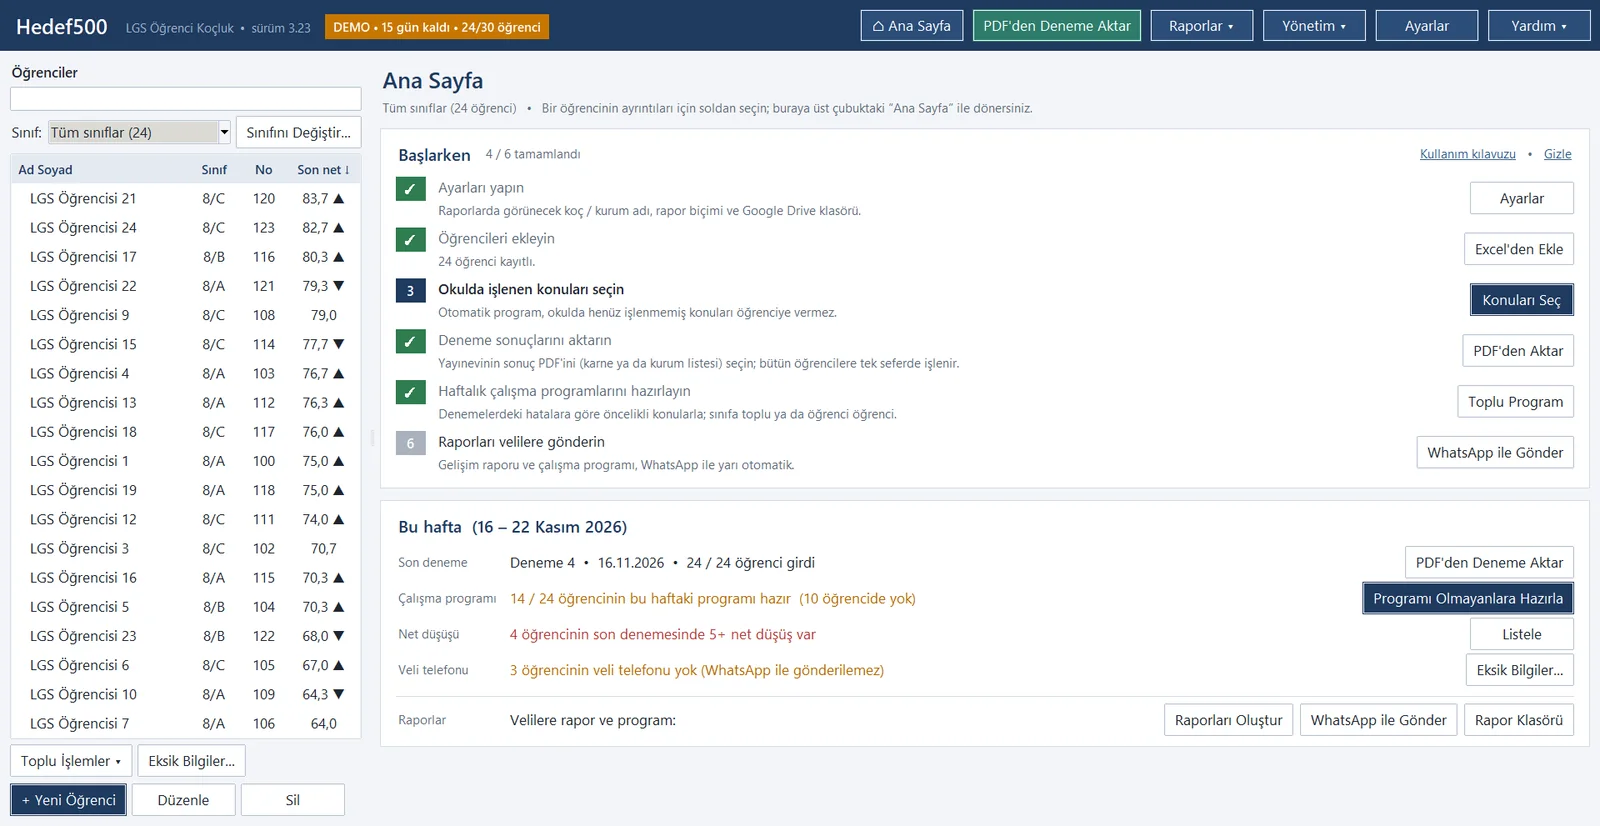
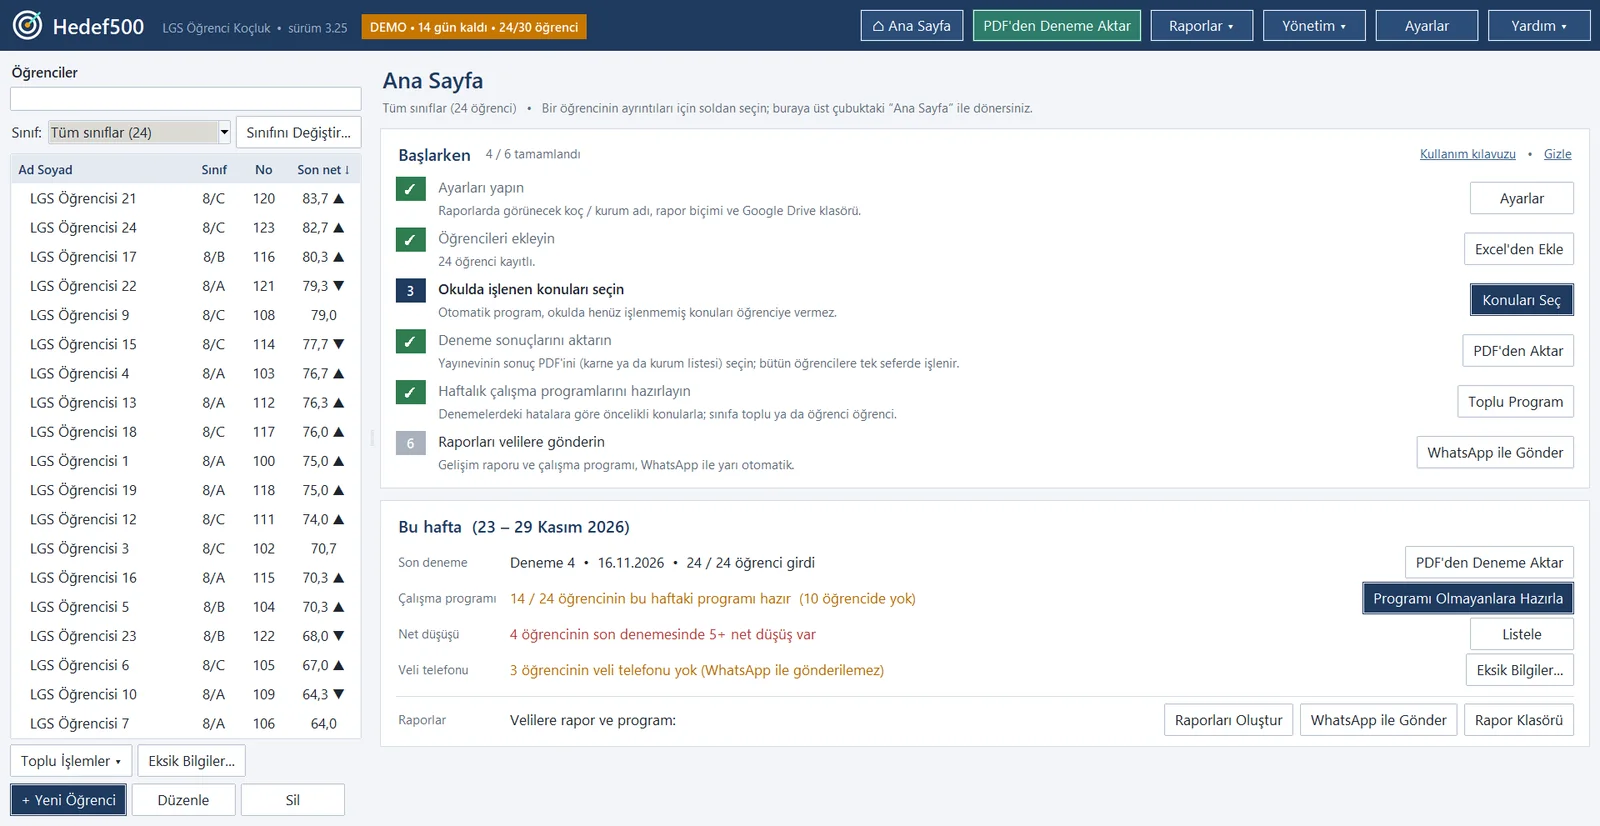
Program görselleri 3.25 ile yenilendi; gün içi sıra, geri alma ve haftalık çizelge anlatımı

Changed region(s): [[0.0, 0.0, 0.375, 0.0605], [0.3125, 0.6356, 0.4062, 0.6659]]

diff --git a/index.html b/index.html
@@ -308,8 +308,8 @@
         <div class="adim-metin">
           <span class="adim-no" aria-hidden="true">3</span>
           <h3>Haftalık programı hazırlayın</h3>
-          <p>Program, öğrencinin öncelikli konularından o haftanın çalışma planını çıkarır: konu çalışması, kazanım soruları, deneme analizi ve günlük paragraf rutini. Tek öğrenciye ya da bütün sınıfa bir kerede hazırlanır; dilediğiniz görevi elle değiştirirsiniz.</p>
-          <p class="adim-ayrinti">Öğrenci tamamladıkça işaretlenir; programa uyum oranı raporlara yansır.</p>
+          <p>Program, öğrencinin öncelikli konularından o haftanın çalışma planını çıkarır: konu çalışması, kazanım soruları, deneme analizi ve günlük paragraf rutini. Tek öğrenciye ya da bütün sınıfa bir kerede hazırlanır; dilediğiniz görevi elle değiştirir, gün içindeki sırasını belirlersiniz. Yanlışlıkla sildiğinizi tek tuşla geri alırsınız.</p>
+          <p class="adim-ayrinti">Yatay haftalık çizelge her dersi her gün aynı satırda, tek sayfada gösterir. Öğrenci tamamladıkça işaretlenir; programa uyum oranı raporlara yansır.</p>
         </div>
         <figure class="pencere adim-gorsel"><img src="gorseller/program.webp" width="1600" height="826" loading="lazy" alt="Çalışma programı: günlere göre ders, konu, etkinlik, süre ve durum"></figure>
       </li>
